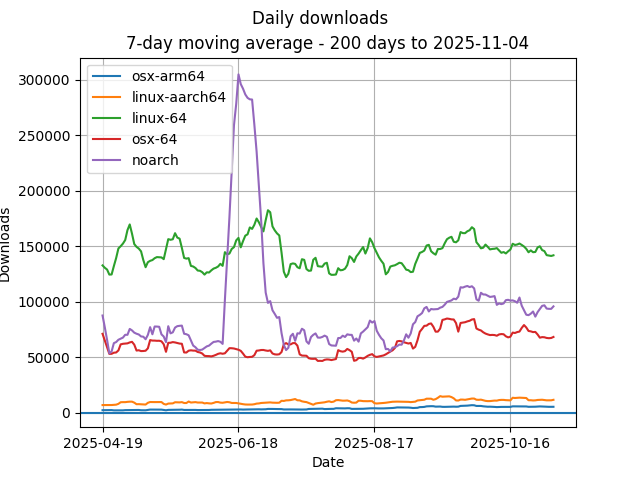
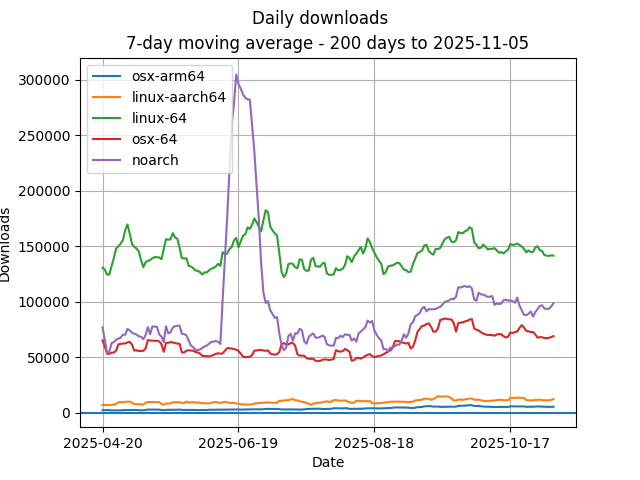
update front image

diff --git a/packages.md b/packages.md
@@ -2,42 +2,42 @@
 ## last 7 days
 |linux-64 | noarch | osx-64 | linux-aarch64 | osx-arm64 | 
 |-|-|-|-|-|
-|('pysam', 42211) |('dxpy', 13957) |('pysam', 34641) |('harpy', 19911) |('pysam', 6362) |
-|('samtools', 28129) |('picard', 10063) |('meme', 18908) |('pysam', 8589) |('last', 3326) |
-|('htslib', 21050) |('metaphlan', 7240) |('last', 16800) |('last', 3977) |('diamond', 2113) |
-|('harpy', 20258) |('snakemake-minimal', 6352) |('bowtie2', 12796) |('diamond', 2031) |('samtools', 1411) |
-|('meme', 19439) |('gatk4-spark', 6053) |('bbmap', 12538) |('hyphy', 2025) |('htslib', 1392) |
-|('last', 17704) |('star-fusion', 5119) |('picard', 12121) |('htslib', 1866) |('hyphy', 1093) |
-|('bowtie2', 16377) |('fastqc', 4947) |('peptide-shaker', 11068) |('ucsc-fatotwobit', 1830) |('libcifpp', 997) |
-|('bbmap', 14606) |('snakemake', 4933) |('samtools', 10741) |('samtools', 1650) |('bwa', 945) |
-|('blast', 14082) |('bioconductor-biocgenerics', 4666) |('diamond', 9680) |('sepp', 1572) |('fermi2', 813) |
+|('pysam', 41732) |('dxpy', 13724) |('pysam', 34186) |('harpy', 19758) |('pysam', 6287) |
+|('samtools', 28384) |('picard', 9943) |('meme', 18853) |('pysam', 8519) |('last', 3272) |
+|('htslib', 21384) |('metaphlan', 7147) |('last', 16669) |('last', 3921) |('diamond', 2142) |
+|('harpy', 20038) |('snakemake-minimal', 6439) |('bowtie2', 12542) |('diamond', 2079) |('samtools', 1400) |
+|('meme', 19234) |('gatk4-spark', 6051) |('bbmap', 12355) |('hyphy', 2031) |('htslib', 1367) |
+|('last', 17423) |('star-fusion', 5079) |('picard', 11908) |('htslib', 1896) |('hyphy', 1137) |
+|('bowtie2', 16086) |('snakemake', 5007) |('peptide-shaker', 10929) |('ucsc-fatotwobit', 1789) |('libcifpp', 985) |
+|('bbmap', 14369) |('fastqc', 4970) |('samtools', 10594) |('samtools', 1665) |('bwa', 942) |
+|('blast', 13861) |('bioconductor-biocgenerics', 4819) |('diamond', 9576) |('sepp', 1542) |('fermi2', 817) |
 # First 10 missing packages in linux-aarch64 by linux-x86_64 rank
 ## last 7 days
 
 | Package | Downloads |
 | - | - |
-| genenotebook | 4947 | 
-| genoboo | 3990 | 
-| mentalist | 1837 | 
-| lambda | 1057 | 
-| novoalign | 854 | 
-| rnftools | 826 | 
-| unifrac | 670 | 
-| pbtk | 598 | 
-| unifrac-binaries | 521 | 
-| plink2 | 462 | 
+| genenotebook | 4857 | 
+| genoboo | 3923 | 
+| mentalist | 1823 | 
+| lambda | 1055 | 
+| novoalign | 825 | 
+| rnftools | 813 | 
+| unifrac | 648 | 
+| unifrac-binaries | 527 | 
+| pbtk | 515 | 
+| plink2 | 470 | 
 # First 10 missing packages in osx-arm64 by osx-64 rank
 ## last 7 days
 
 | Package | Downloads |
 | - | - |
-| genenotebook | 5515 | 
-| sepp | 5259 | 
-| genoboo | 4287 | 
-| bioconductor-mspurity | 1091 | 
-| lambda | 861 | 
-| rnftools | 838 | 
+| genenotebook | 5443 | 
+| sepp | 5255 | 
+| genoboo | 4232 | 
+| bioconductor-mspurity | 1090 | 
+| lambda | 834 | 
+| rnftools | 829 | 
 | bioconductor-diffbind | 675 | 
 | comet-ms | 669 | 
-| gecode | 627 | 
-| gemini | 514 | 
+| gecode | 602 | 
+| gemini | 516 | 
